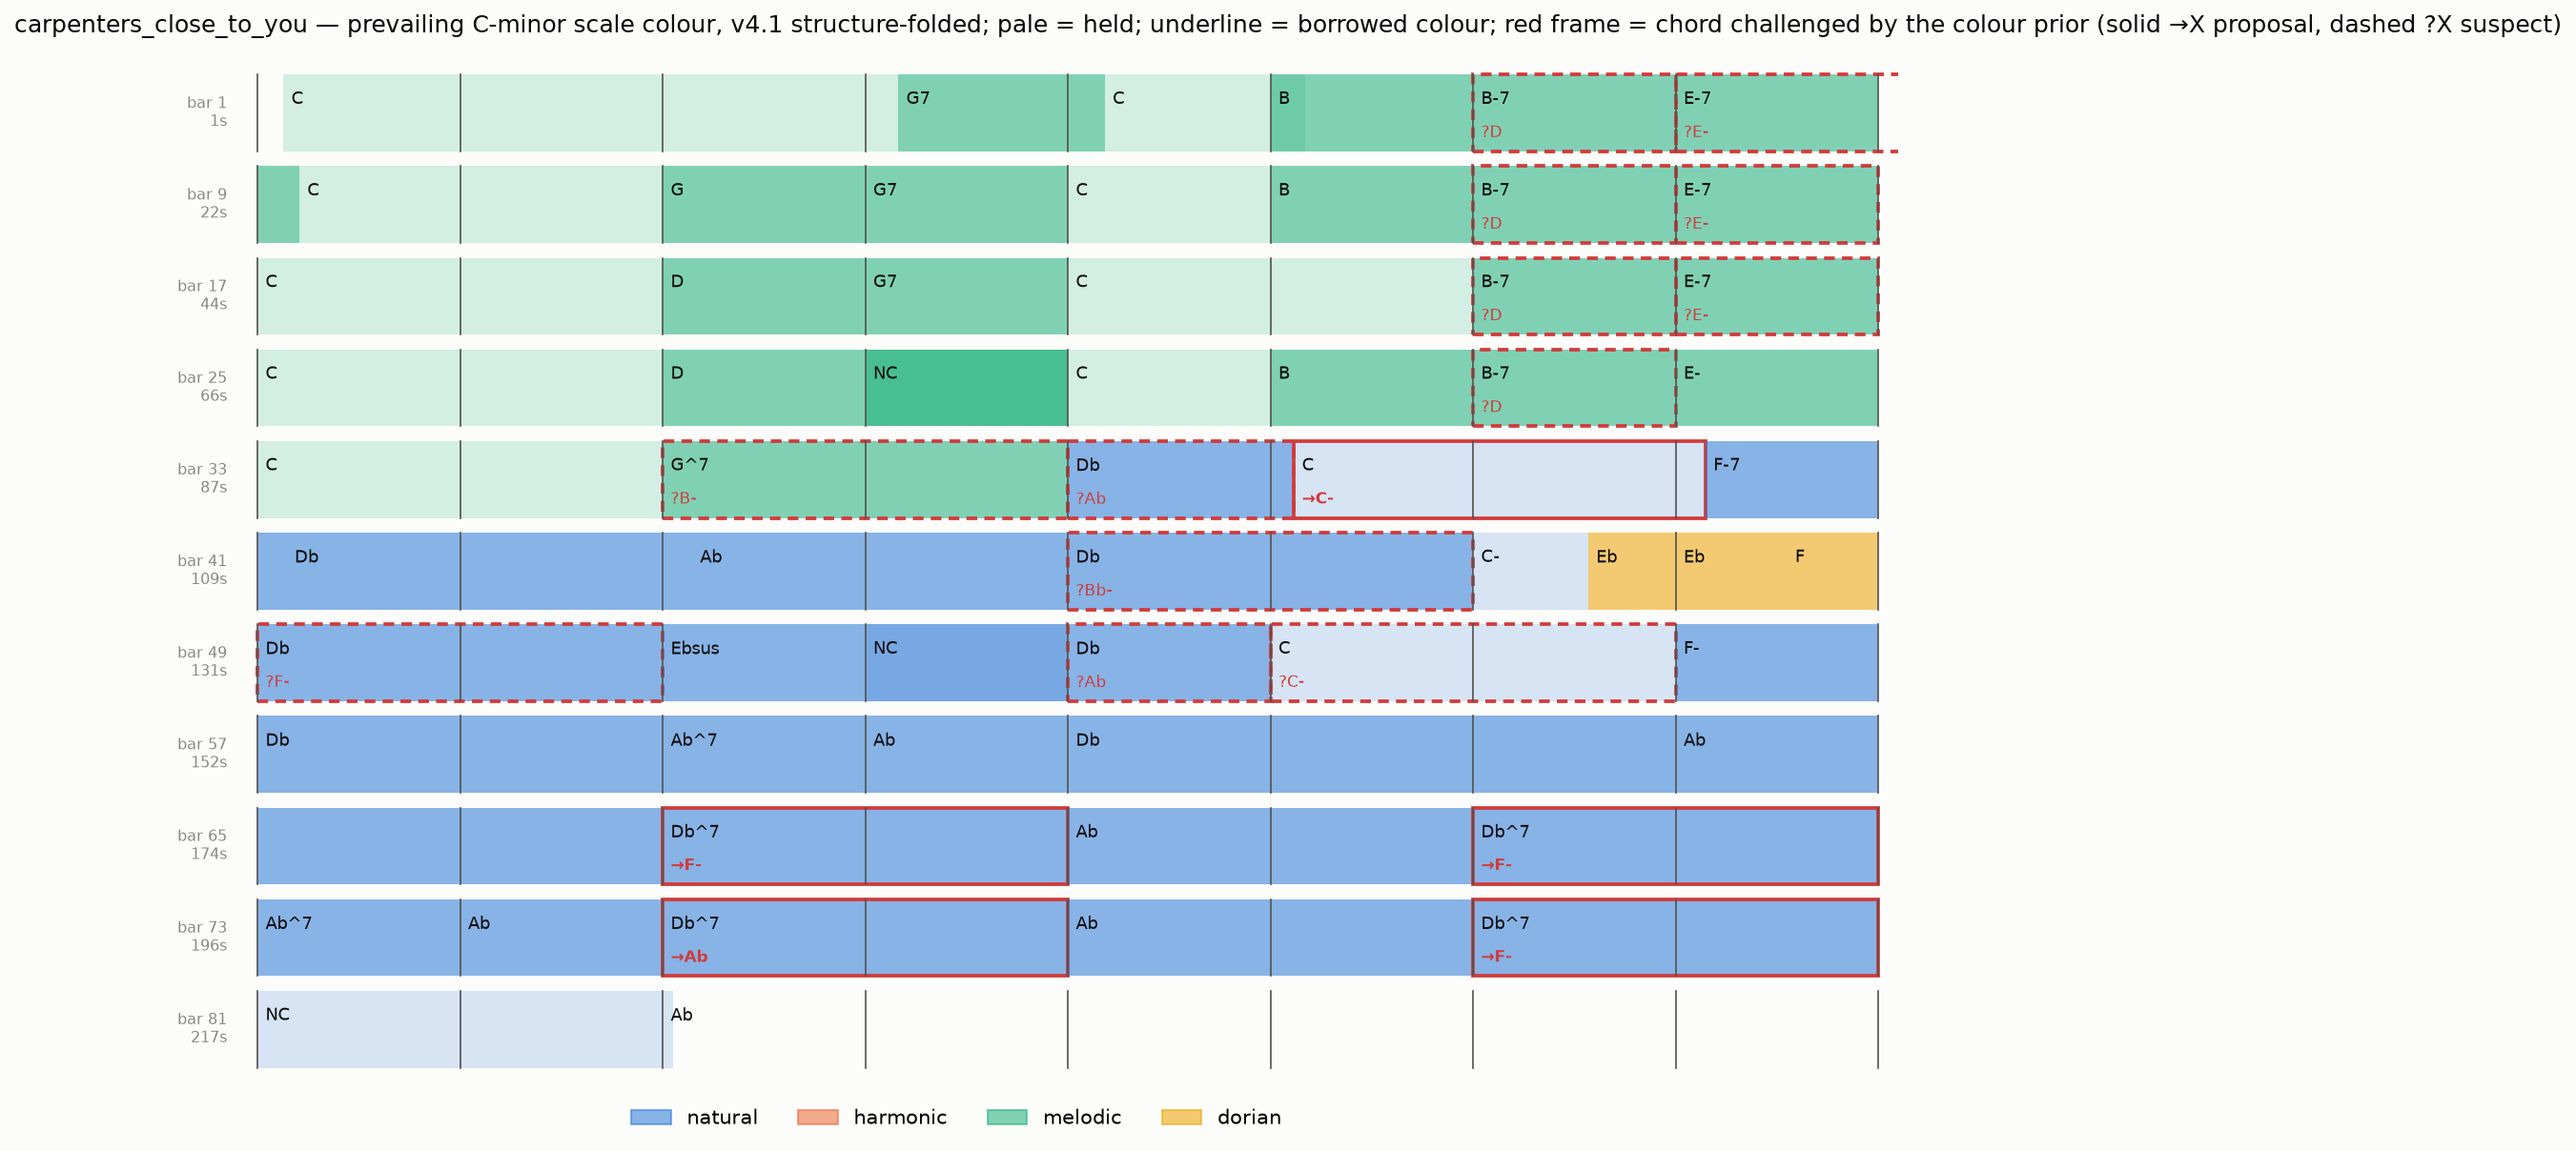
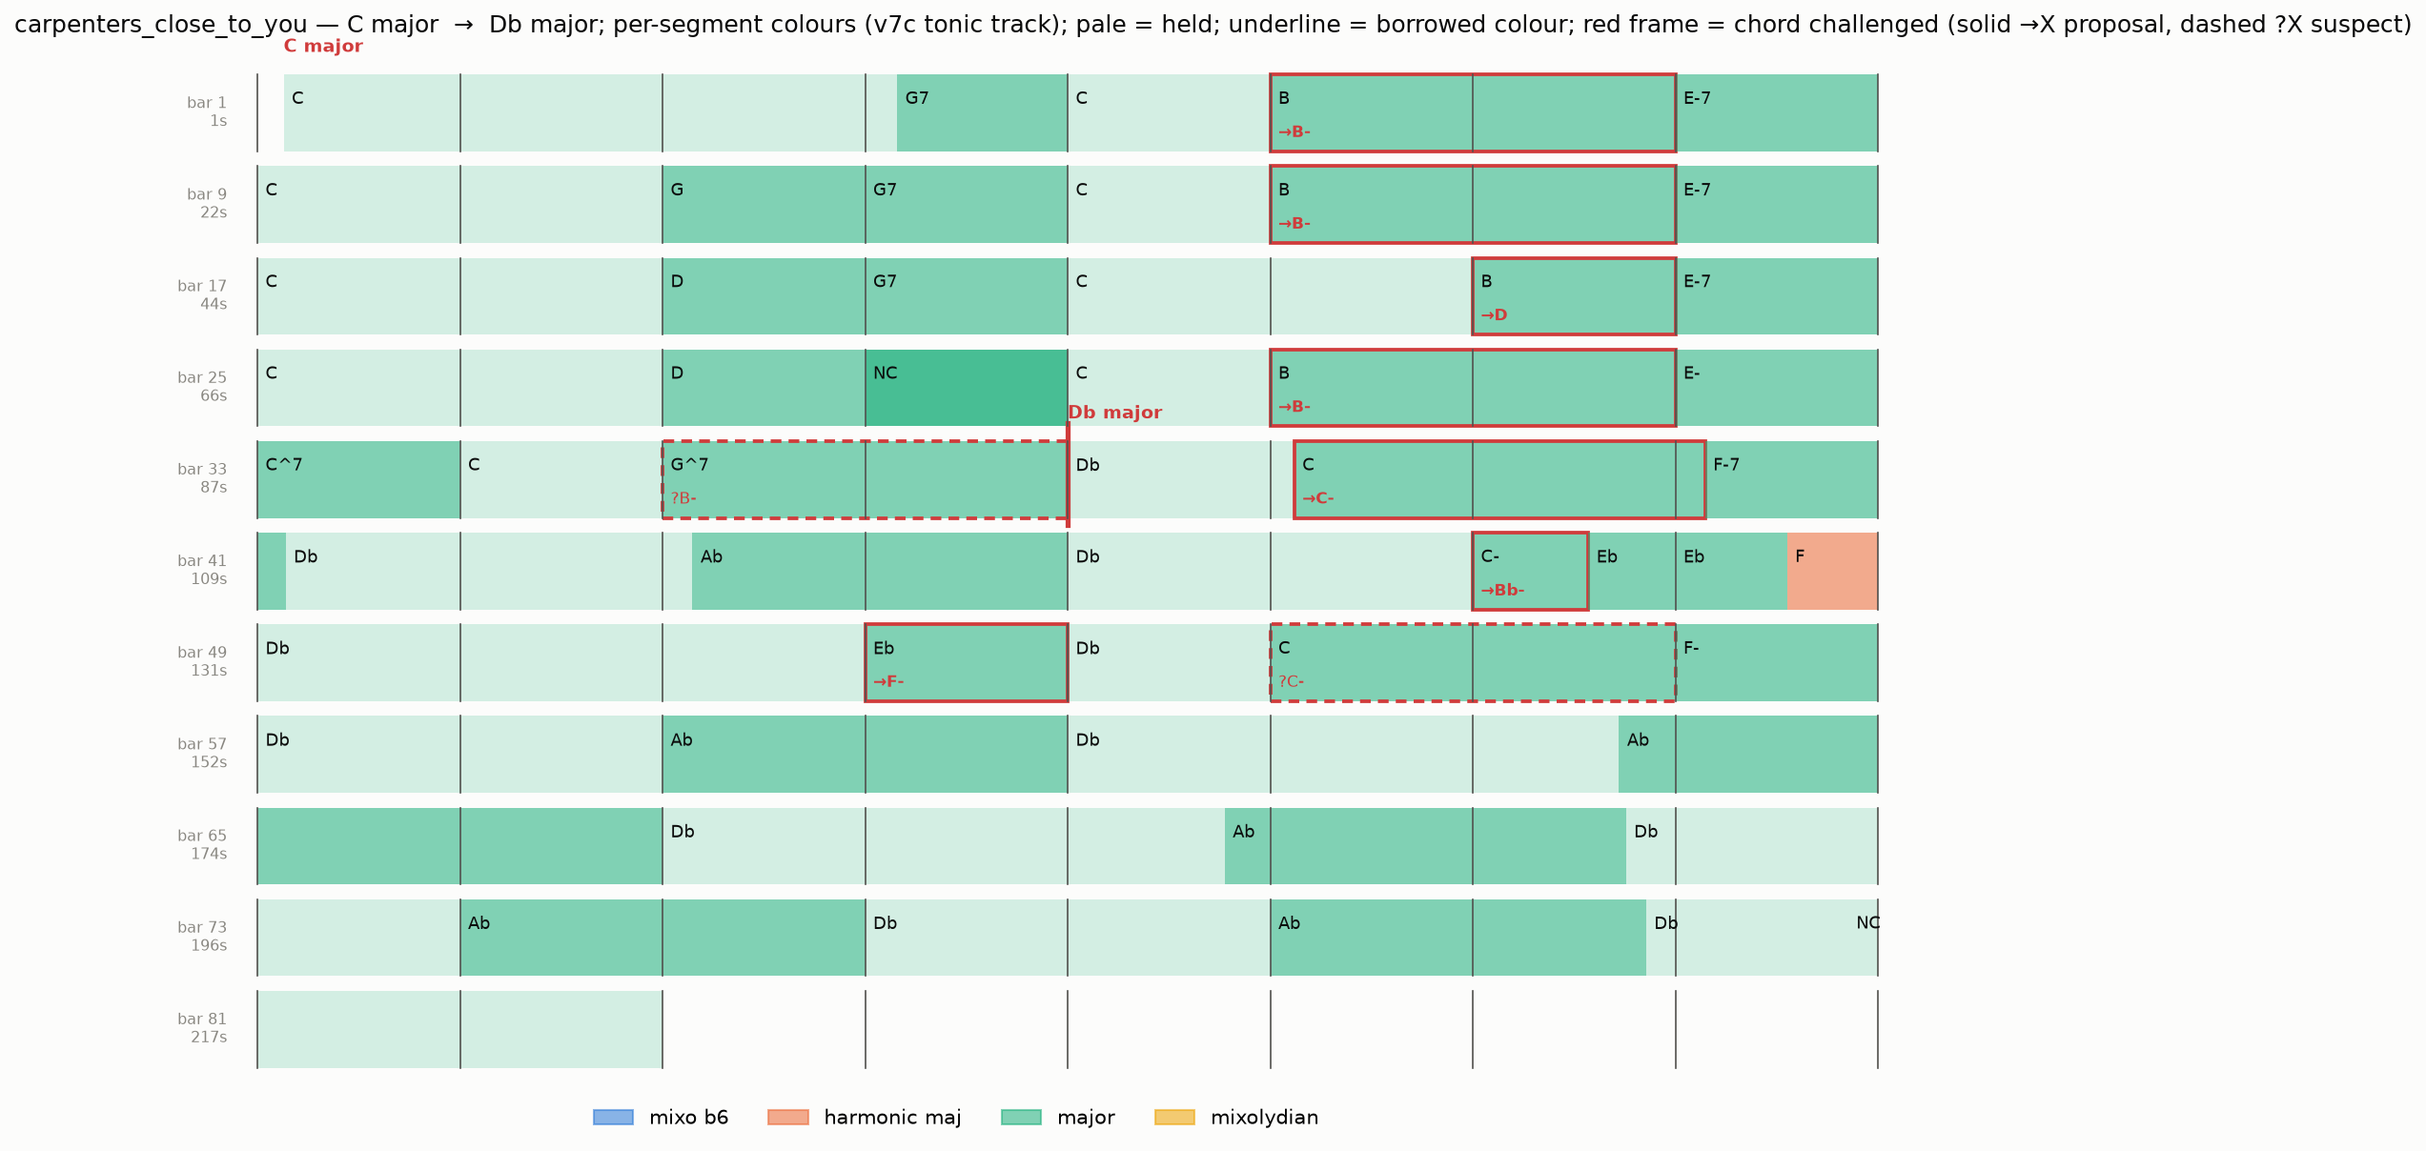
harmonic-key v7c: per-segment lead-sheet - key labels, boundary line, local spelling
decode_segments() packages the v7c pipeline (tonic track -> per-segment
folded decode) for both the report and the chart. Close to You renders
'C major -> Db major' with the boundary marked at ~98s, segment-local
chord spelling, and the audits in place (B->B-, C->C-, Eb->F-).

diff --git a/scratchpad/colour_chart_song.py b/scratchpad/colour_chart_song.py
@@ -26,8 +26,8 @@ sys.path.insert(0, str(REPO))
 sys.path.insert(0, str(REPO / "scratchpad"))
 
 from colour_hmm_song import (  # noqa: E402
-    GAIN, HELD_W, STATE_COLORS, bar_anchor_offset, beat_grid, challenge_chords,
-    chord_name, decode_folded, inflections, load_song,
+    GAIN, HELD_W, MODE_STATE_LABEL, STATE_COLORS, bar_anchor_offset, beat_grid,
+    chord_name, decode_segments, load_song,
 )
 from harmonia.models import nnls_features as nf  # noqa: E402
 
@@ -49,16 +49,18 @@ def main() -> None:
     audio = REPO / "docs" / "audio" / f"{slug}.m4a"
     arr, times = nf.extract_bothchroma(audio)
     chords = song.chords
-    path, rows, ev6, ev7, chromas, _slotmap, form = decode_folded(
-        arr, times, chords, song)
-    flag_list = inflections(path, rows, ev6, ev7)
-    flags = dict(flag_list)
-    audits = {i: (best, kind)
-              for i, best, _, _, kind in
-              challenge_chords(chords, chromas, path, flag_list, song)}
+    segs, path, flags, audits, ev6, ev7 = decode_segments(arr, times, chords, song)
+    loc_of = {}  # global chord index -> its segment's local Song (naming)
+    seg_of = {}
+    for s in segs:
+        for i in range(s["i0"], s["i1"]):
+            loc_of[i] = s["loc"]
+            seg_of[i] = s
     w_tot = np.array([GAIN * (t6 + t7) for (t6, _), (t7, _) in zip(ev6, ev7)])
     held = w_tot < HELD_W
-    print(f"form: {form}")
+    for s in segs:
+        print(f"segment {s['loc'].name_pc(s['tonic'])} {s['mode']}: "
+              f"form {s['form']}")
 
     bt = beat_grid(slug, float(times[-1]))
     bpb = song.bpb
@@ -104,8 +106,18 @@ def main() -> None:
             seg0 = seg1
         row0 = int(p0 // BARS_PER_ROW)
         x_lab = p0 - row0 * BARS_PER_ROW + 0.04
-        ax.text(x_lab, -row0 + 0.24, chord_name(ch, song),
+        ax.text(x_lab, -row0 + 0.24, chord_name(ch, loc_of[i]),
                 fontsize=8.5, color=INK, va="top", ha="left")
+        s = seg_of[i]
+        if i == s["i0"]:  # segment start: key label + heavy boundary line
+            key = f"{s['loc'].name_pc(s['tonic'])} {s['mode']}"
+            ax.text(x_lab - 0.04, -row0 + 0.62, key, fontsize=9, color=CRIT
+                    if len(segs) > 1 else INK2, va="bottom", ha="left",
+                    fontweight="bold")
+            if i > 0:
+                bx = p0 - row0 * BARS_PER_ROW
+                ax.plot([bx, bx], [-row0 - 0.5, -row0 + 0.62],
+                        color=CRIT, lw=2.5)
         if i in audits:
             best, kind = audits[i]
             solid = kind == "challenge"
@@ -128,13 +140,16 @@ def main() -> None:
 
     handles = [plt.Rectangle((0, 0), 1, 1, color=c, alpha=0.55)
                for c in STATE_COLORS.values()]
-    ax.legend(handles, list(STATE_COLORS), loc="lower center",
-              bbox_to_anchor=(0.5, -0.06), ncol=4, frameon=False, fontsize=10)
-    tname = song.name_pc(song.tonic)
+    leg_mode = segs[0]["mode"]
+    ax.legend(handles, [MODE_STATE_LABEL[leg_mode][s] for s in STATE_COLORS],
+              loc="lower center", bbox_to_anchor=(0.5, -0.06), ncol=4,
+              frameon=False, fontsize=10)
+    keys = "  →  ".join(f"{s['loc'].name_pc(s['tonic'])} {s['mode']}"
+                        for s in segs)
     ax.set_title(
-        f"{slug} — prevailing {tname}-minor scale colour, v4.1 structure-folded; "
-        "pale = held; underline = borrowed colour; red frame = chord challenged "
-        "by the colour prior (solid →X proposal, dashed ?X suspect)",
+        f"{slug} — {keys}; per-segment colours (v7c tonic track); "
+        "pale = held; underline = borrowed colour; red frame = chord "
+        "challenged (solid →X proposal, dashed ?X suspect)",
         color=INK, loc="left", fontsize=12,
     )
     ax.set_xlim(-1.2, BARS_PER_ROW + 0.1)

diff --git a/scratchpad/colour_hmm_song.py b/scratchpad/colour_hmm_song.py
@@ -629,6 +629,43 @@ def decode_folded(arr, times, chords, song: Song):
     return viterbi(rows), rows, pe6, pe7, pch, slotmap, form
 
 
+def decode_segments(arr, times, chords, song: Song):
+    """v7c packaged: tonic track → per-segment folded decode, global indices.
+
+    Returns (segs_out, path, flags, audits, ev6, ev7): `path` one colour
+    per chord; `flags`/`audits` dicts keyed by GLOBAL chord index; each
+    segs_out item {tonic, mode, i0, i1, form, loc} where `loc` is the
+    segment-local Song (tonic + mode-aware spelling) for naming.
+    """
+    global MODE
+    segs, _ = tonic_track(chords, arr, times)
+    path, ev6, ev7 = [], [], []
+    flags, audits = {}, {}
+    segs_out = []
+    for s in segs:
+        sub = chords[s["i0"]:s["i1"]]
+        loc = replace(song, tonic=s["tonic"], tonic_overridden=True)
+        m_l, _, _, _ = mode_audit(sub, arr, times, loc)
+        MODE = m_l
+        sharp = (s["tonic"] in SHARP_TONICS if m_l == "minor"
+                 else s["tonic"] in {7, 2, 9, 4, 11, 6})
+        loc = replace(loc, pcn=PC_SHARP if sharp else PC_FLAT)
+        spath, srows, se6, se7, sch, _slots, sform = decode_folded(
+            arr, times, sub, loc)
+        sflags = inflections(spath, srows, se6, se7)
+        for i, own in sflags:
+            flags[s["i0"] + i] = own
+        for i, best, wscore, top3, kind in challenge_chords(
+                sub, sch, spath, sflags, loc):
+            audits[s["i0"] + i] = (best, kind)
+        path.extend(spath)
+        ev6.extend(se6)
+        ev7.extend(se7)
+        segs_out.append({**s, "mode": m_l, "form": sform, "loc": loc})
+        MODE = "minor"
+    return segs_out, path, flags, audits, ev6, ev7
+
+
 # ── main ────────────────────────────────────────────────────────────────────
 
 
